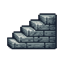
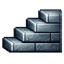
Add files via upload

diff --git a/main.js b/main.js
@@ -13,6 +13,7 @@ const OXYGEN_ACTION_INTERVAL = 2;
 const BOSS_FLOOR_INTERVAL = 5;
 const FINAL_FLOOR = 10;
 const CAMERA_SMOOTHING = 0.22;
+const FLOATING_TEXT_DURATION = 680;
 
 const FLOOR_TYPE = {
   NORMAL: "normal",
@@ -431,10 +432,12 @@ const state = {
   deathCause: "",
   logs: [],
   gameState: "playing",
+  floatingTexts: [],
 };
 
 let nextEntityId = 1;
 let nextRoomId = 1;
+let nextFloatingTextId = 1;
 const spriteAssetLoadState = new Map();
 
 const elements = {
@@ -469,6 +472,7 @@ function initGame() {
   state.lastRenderedCamera = { x: null, y: null };
   state.mapDirty = true;
   state.logs = [];
+  state.floatingTexts = [];
   state.upgrades = [];
   state.upgradeChoices = [];
   state.pendingFloor = null;
@@ -512,6 +516,7 @@ function setupFloor() {
   state.visualImpulses.clear();
   state.mapDirty = true;
   state.lastRenderedCamera = { x: null, y: null };
+  state.floatingTexts = [];
   elements.map.style.transform = "";
   elements.actorLayer.style.transform = "";
   if (state.animationFrame) {
@@ -1385,7 +1390,12 @@ function getAttackModeDef(modeId) {
 
 function applyKillRewards() {
   if (state.player.onKillHeal > 0) {
+    const previousHp = state.player.hp;
     state.player.hp = Math.min(state.player.maxHp, state.player.hp + state.player.onKillHeal);
+    const healed = state.player.hp - previousHp;
+    if (healed > 0) {
+      spawnFloatingText(state.player.x, state.player.y, `+${healed}`, "heal", "player");
+    }
   }
   if (state.player.onKillOxygen > 0) {
     state.player.oxygen = Math.min(state.player.maxOxygen, state.player.oxygen + state.player.onKillOxygen);
@@ -1404,6 +1414,7 @@ function applyDamageToPlayer(amount, source, hitFrom = null) {
   if (remainingDamage > 0) {
     state.player.hp -= remainingDamage;
     state.deathCause = source;
+    spawnFloatingText(state.player.x, state.player.y, `-${remainingDamage}`, "damage", "player");
     if (hitFrom) {
       queueVisualImpulse(
         "player",
@@ -1604,6 +1615,9 @@ function consumeOxygen() {
 
   if (state.player.oxygen > 0) {
     state.player.oxygen -= 1;
+    if (state.player.oxygen === 0) {
+      spawnFloatingText(state.player.x, state.player.y, "酸素切れ", "alert", "player", 3000);
+    }
     if (state.player.oxygen === 5) {
       addLog("酸素残量が少ない。");
     }
@@ -1705,7 +1719,12 @@ function actSupportEnemy(enemy) {
   const ally = findHealTarget(enemy, def.supportRange || 3);
   if (ally) {
     const amount = def.healPower || 2;
+    const previousHp = ally.hp;
     ally.hp = Math.min(ally.maxHp, ally.hp + amount);
+    const healed = ally.hp - previousHp;
+    if (healed > 0) {
+      spawnFloatingText(ally.x, ally.y, `+${healed}`, "heal", ally.id);
+    }
     addLog(`${def.name} が ${ENEMY_DEFS[ally.type].name} を ${amount} 回復した。`);
     return;
   }
@@ -1817,7 +1836,12 @@ function damageEnemy(enemy, amount, options = {}) {
     return false;
   }
 
+  const previousHp = enemy.hp;
   enemy.hp -= amount;
+  const actualDamage = Math.min(previousHp, amount);
+  if (actualDamage > 0) {
+    spawnFloatingText(enemy.x, enemy.y, `-${actualDamage}`, "damage", enemy.id);
+  }
   if (enemy.hp > 0) {
     return false;
   }
@@ -1968,7 +1992,12 @@ function collectItemAtPlayer() {
   }
 
   if (item.type === "medkit") {
+    const previousHp = state.player.hp;
     state.player.hp = Math.min(state.player.maxHp, state.player.hp + 5);
+    const healed = state.player.hp - previousHp;
+    if (healed > 0) {
+      spawnFloatingText(state.player.x, state.player.y, `+${healed}`, "heal", "player");
+    }
     addLog("応急キットを使用しHPを5回復した。");
   } else if (item.type === "oxygen") {
     state.player.oxygen = Math.min(state.player.maxOxygen, state.player.oxygen + 10);
@@ -2335,6 +2364,70 @@ function renderActors() {
       visible: true,
     }, metrics);
   });
+
+  renderFloatingTexts(metrics);
+}
+
+function renderFloatingTexts(metrics) {
+  const now = state.visualTimestamp || getNow();
+
+  state.floatingTexts.forEach((entry) => {
+    const anchor = getFloatingTextAnchor(entry);
+    const screenX = anchor.x - state.camera.x;
+    const screenY = anchor.y - state.camera.y;
+    if (screenX < -1 || screenY < -1 || screenX > VIEWPORT_WIDTH || screenY > VIEWPORT_HEIGHT) {
+      return;
+    }
+
+    const progress = clamp((now - entry.startTime) / entry.duration, 0, 1);
+    const rise = progress * metrics.tileHeight * 0.68;
+    const driftX = entry.offsetX;
+    const baseX = metrics.originX + (screenX * metrics.stepX) + (metrics.tileWidth * 0.5);
+    const baseY = metrics.originY + (screenY * metrics.stepY) - (metrics.tileHeight * 0.18);
+
+    const textElement = document.createElement("div");
+    textElement.className = `floating-text floating-text-${entry.kind}`;
+    textElement.textContent = entry.text;
+    textElement.style.opacity = `${1 - progress}`;
+    textElement.style.transform = `translate3d(${Math.round(baseX + driftX)}px, ${Math.round(baseY - rise - entry.offsetY)}px, 0) translateX(-50%)`;
+    elements.actorLayer.appendChild(textElement);
+  });
+}
+
+function getFloatingTextAnchor(entry) {
+  if (entry.targetId === "player") {
+    return {
+      x: Number.isFinite(state.player.renderX) ? state.player.renderX : entry.x,
+      y: Number.isFinite(state.player.renderY) ? state.player.renderY : entry.y,
+    };
+  }
+
+  const enemy = state.enemies.find((target) => target.id === entry.targetId);
+  if (enemy) {
+    return {
+      x: Number.isFinite(enemy.renderX) ? enemy.renderX : entry.x,
+      y: Number.isFinite(enemy.renderY) ? enemy.renderY : entry.y,
+    };
+  }
+
+  return { x: entry.x, y: entry.y };
+}
+
+function spawnFloatingText(x, y, value, kind, targetId = null, duration = FLOATING_TEXT_DURATION) {
+  const stackCount = state.floatingTexts.filter((entry) => entry.targetId === targetId).length;
+  state.floatingTexts.push({
+    id: nextFloatingTextId,
+    x,
+    y,
+    text: value,
+    kind,
+    targetId,
+    startTime: getNow(),
+    duration,
+    offsetX: (stackCount % 2 === 0 ? -1 : 1) * Math.min(12, stackCount * 4),
+    offsetY: stackCount * 7,
+  });
+  nextFloatingTextId += 1;
 }
 
 function applyCameraViewportOffset(metrics) {
@@ -2371,6 +2464,8 @@ function updateTimedVisualStates(timestamp) {
   if (state.player.spriteState === "attack" && state.player.spriteStateEndsAt > 0 && timestamp >= state.player.spriteStateEndsAt) {
     setPlayerSpriteState("idle");
   }
+
+  state.floatingTexts = state.floatingTexts.filter((entry) => (timestamp - entry.startTime) < entry.duration);
 }
 
 function renderActorSprite(actor, metrics) {

diff --git a/style.css b/style.css
@@ -399,6 +399,39 @@ select {
   animation: none;
 }
 
+.floating-text {
+  position: absolute;
+  left: 0;
+  top: 0;
+  z-index: 8;
+  pointer-events: none;
+  font-size: 0.78rem;
+  font-weight: 900;
+  line-height: 1;
+  letter-spacing: 0.01em;
+  white-space: nowrap;
+  text-shadow:
+    -1px 0 0 rgba(9, 14, 18, 0.95),
+    1px 0 0 rgba(9, 14, 18, 0.95),
+    0 -1px 0 rgba(9, 14, 18, 0.95),
+    0 1px 0 rgba(9, 14, 18, 0.95),
+    0 2px 6px rgba(0, 0, 0, 0.35);
+}
+
+.floating-text-damage {
+  color: #ff8e74;
+}
+
+.floating-text-heal {
+  color: #7ef0bc;
+}
+
+.floating-text-alert {
+  color: #8ee7ff;
+  font-size: 0.72rem;
+  letter-spacing: 0.04em;
+}
+
 @keyframes idle-float {
   0%, 100% { transform: translateY(0); }
   50% { transform: translateY(-4%); }
@@ -473,10 +506,16 @@ select {
 }
 
 .tile-stairs {
-  background: transparent;
+  padding: 5px;
+  box-sizing: border-box;
+  background:
+    radial-gradient(circle at 50% 48%, rgba(255, 255, 255, 0.96) 0%, rgba(245, 249, 253, 0.9) 28%, rgba(218, 228, 239, 0.55) 50%, rgba(186, 198, 213, 0.2) 68%, rgba(186, 198, 213, 0) 84%);
   border: 0;
-  box-shadow: none;
-  filter: drop-shadow(0 0 8px rgba(76, 201, 255, 0.2));
+  border-radius: 8px;
+  box-shadow:
+    0 0 10px rgba(220, 232, 245, 0.08),
+    0 0 16px rgba(180, 214, 236, 0.1);
+  filter: drop-shadow(0 0 5px rgba(170, 220, 248, 0.12));
 }
 
 .tile-player {
@@ -535,11 +574,6 @@ select {
   border: 0;
   border-radius: 50%;
   box-shadow: 0 0 10px rgba(92, 232, 156, 0.28);
-}
-
-.tile-stairs {
-  color: #d6e6f0;
-  background: linear-gradient(180deg, #3b4d5b 0%, #1b242c 100%);
 }
 
 .log-strip {
@@ -617,16 +651,16 @@ select {
   align-items: center;
   justify-content: center;
   padding: 0;
-  border: 1px solid rgba(255, 255, 255, 0.34);
+  border: 1px solid rgba(226, 236, 246, 0.62);
   border-radius: 14px;
   background:
-    linear-gradient(180deg, rgba(247, 250, 253, 0.98) 0%, rgba(219, 228, 236, 0.98) 100%);
+    linear-gradient(180deg, rgba(246, 249, 253, 0.96) 0%, rgba(221, 229, 238, 0.92) 100%);
   color: #12212d;
   box-shadow:
-    inset 0 1px 0 rgba(255, 255, 255, 0.8),
-    inset 0 -8px 14px rgba(118, 138, 153, 0.15),
-    0 8px 18px rgba(0, 0, 0, 0.22),
-    0 0 0 1px rgba(17, 30, 40, 0.18);
+    inset 0 1px 0 rgba(255, 255, 255, 0.92),
+    inset 0 -10px 18px rgba(154, 170, 188, 0.1),
+    0 8px 18px rgba(0, 0, 0, 0.14),
+    0 0 0 1px rgba(255, 255, 255, 0.04);
   cursor: pointer;
   touch-action: manipulation;
   pointer-events: auto;
@@ -645,21 +679,21 @@ select {
 .restart-button:active {
   transform: translateY(1px);
   box-shadow:
-    inset 0 3px 8px rgba(60, 82, 99, 0.18),
-    0 3px 8px rgba(0, 0, 0, 0.16);
+    inset 0 2px 10px rgba(74, 94, 112, 0.16),
+    0 4px 10px rgba(0, 0, 0, 0.12);
 }
 
 .wait-button,
 .restart-button {
   background:
-    linear-gradient(180deg, rgba(232, 246, 250, 0.98) 0%, rgba(185, 221, 232, 0.98) 100%);
-  border-color: rgba(100, 190, 220, 0.42);
+    linear-gradient(180deg, rgba(239, 248, 252, 0.97) 0%, rgba(202, 226, 236, 0.95) 100%);
+  border-color: rgba(151, 208, 226, 0.5);
   color: #0f2f3e;
 }
 
 .control-button:not(.wait-button) {
   background:
-    linear-gradient(180deg, rgba(250, 252, 255, 0.98) 0%, rgba(221, 228, 237, 0.98) 100%);
+    linear-gradient(180deg, rgba(248, 250, 253, 0.96) 0%, rgba(223, 229, 237, 0.92) 100%);
 }
 
 .control-button:hover,
@@ -667,11 +701,11 @@ select {
 .restart-button:hover,
 .restart-button:focus-visible {
   outline: none;
-  border-color: rgba(147, 221, 255, 0.72);
+  border-color: rgba(182, 220, 239, 0.86);
   box-shadow:
     inset 0 1px 0 rgba(255, 255, 255, 0.9),
-    0 10px 22px rgba(0, 0, 0, 0.24),
-    0 0 0 2px rgba(116, 207, 255, 0.18);
+    0 10px 22px rgba(0, 0, 0, 0.16),
+    0 0 0 2px rgba(161, 208, 232, 0.16);
 }
 
 .dir-button {
@@ -684,10 +718,10 @@ select {
 .dir-button::before {
   content: "";
   position: absolute;
-  inset: 6px;
-  border-radius: 10px;
-  border: 1px solid rgba(148, 168, 181, 0.16);
-  background: linear-gradient(180deg, rgba(255, 255, 255, 0.28) 0%, rgba(255, 255, 255, 0) 100%);
+  inset: 5px;
+  border-radius: 11px;
+  border: 1px solid rgba(255, 255, 255, 0.2);
+  background: linear-gradient(180deg, rgba(255, 255, 255, 0.34) 0%, rgba(255, 255, 255, 0.08) 42%, rgba(255, 255, 255, 0) 100%);
 }
 
 .dir-icon {
@@ -696,12 +730,14 @@ select {
   display: inline-flex;
   align-items: center;
   justify-content: center;
-  font-size: 1.8rem;
+  font-size: 1.9rem;
   line-height: 1;
   letter-spacing: 0;
   font-weight: 900;
-  color: #153447;
-  filter: drop-shadow(0 1px 0 rgba(255, 255, 255, 0.35));
+  color: #24445a;
+  text-shadow:
+    0 1px 0 rgba(255, 255, 255, 0.62),
+    0 0 10px rgba(210, 232, 247, 0.2);
 }
 
 .wait-label {
@@ -710,6 +746,7 @@ select {
   font-size: 0.92rem;
   letter-spacing: 0.04em;
   font-weight: 800;
+  color: #133246;
 }
 
 .restart-inline {
